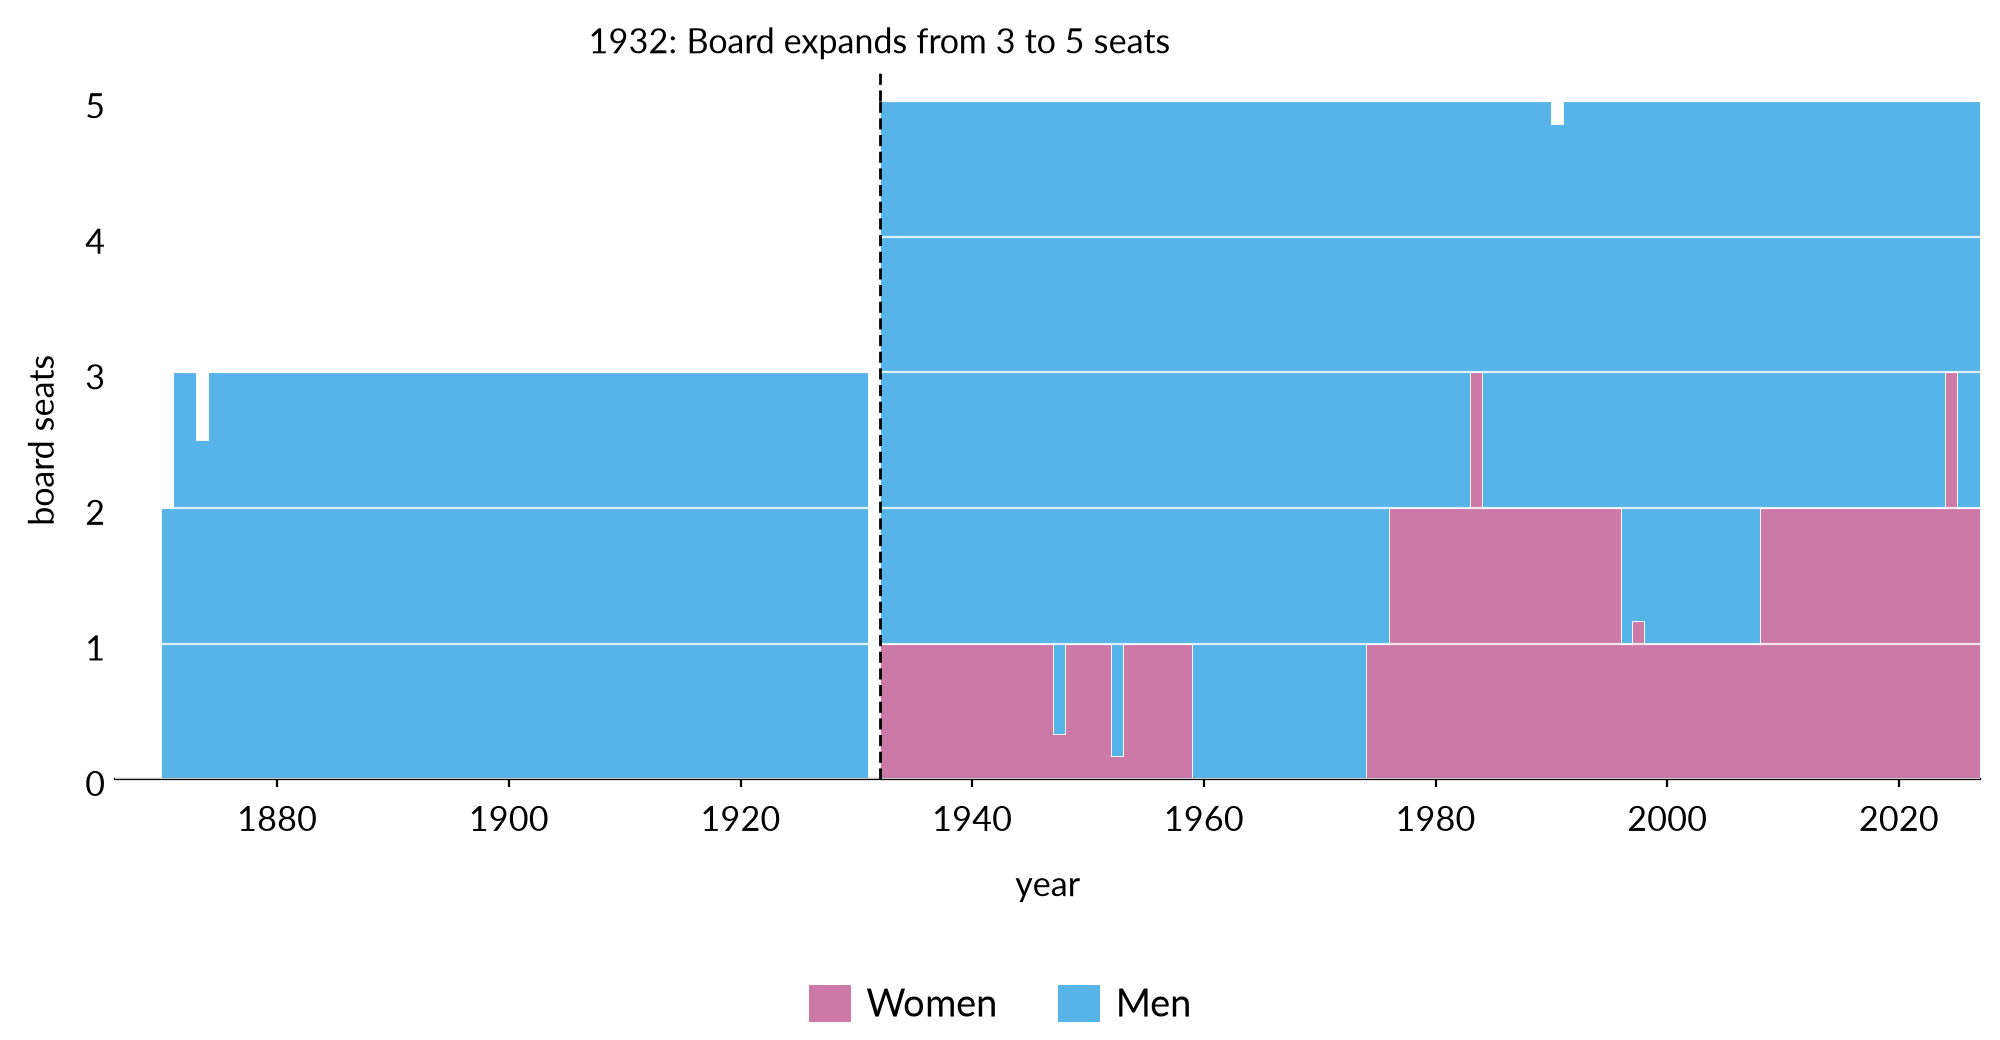
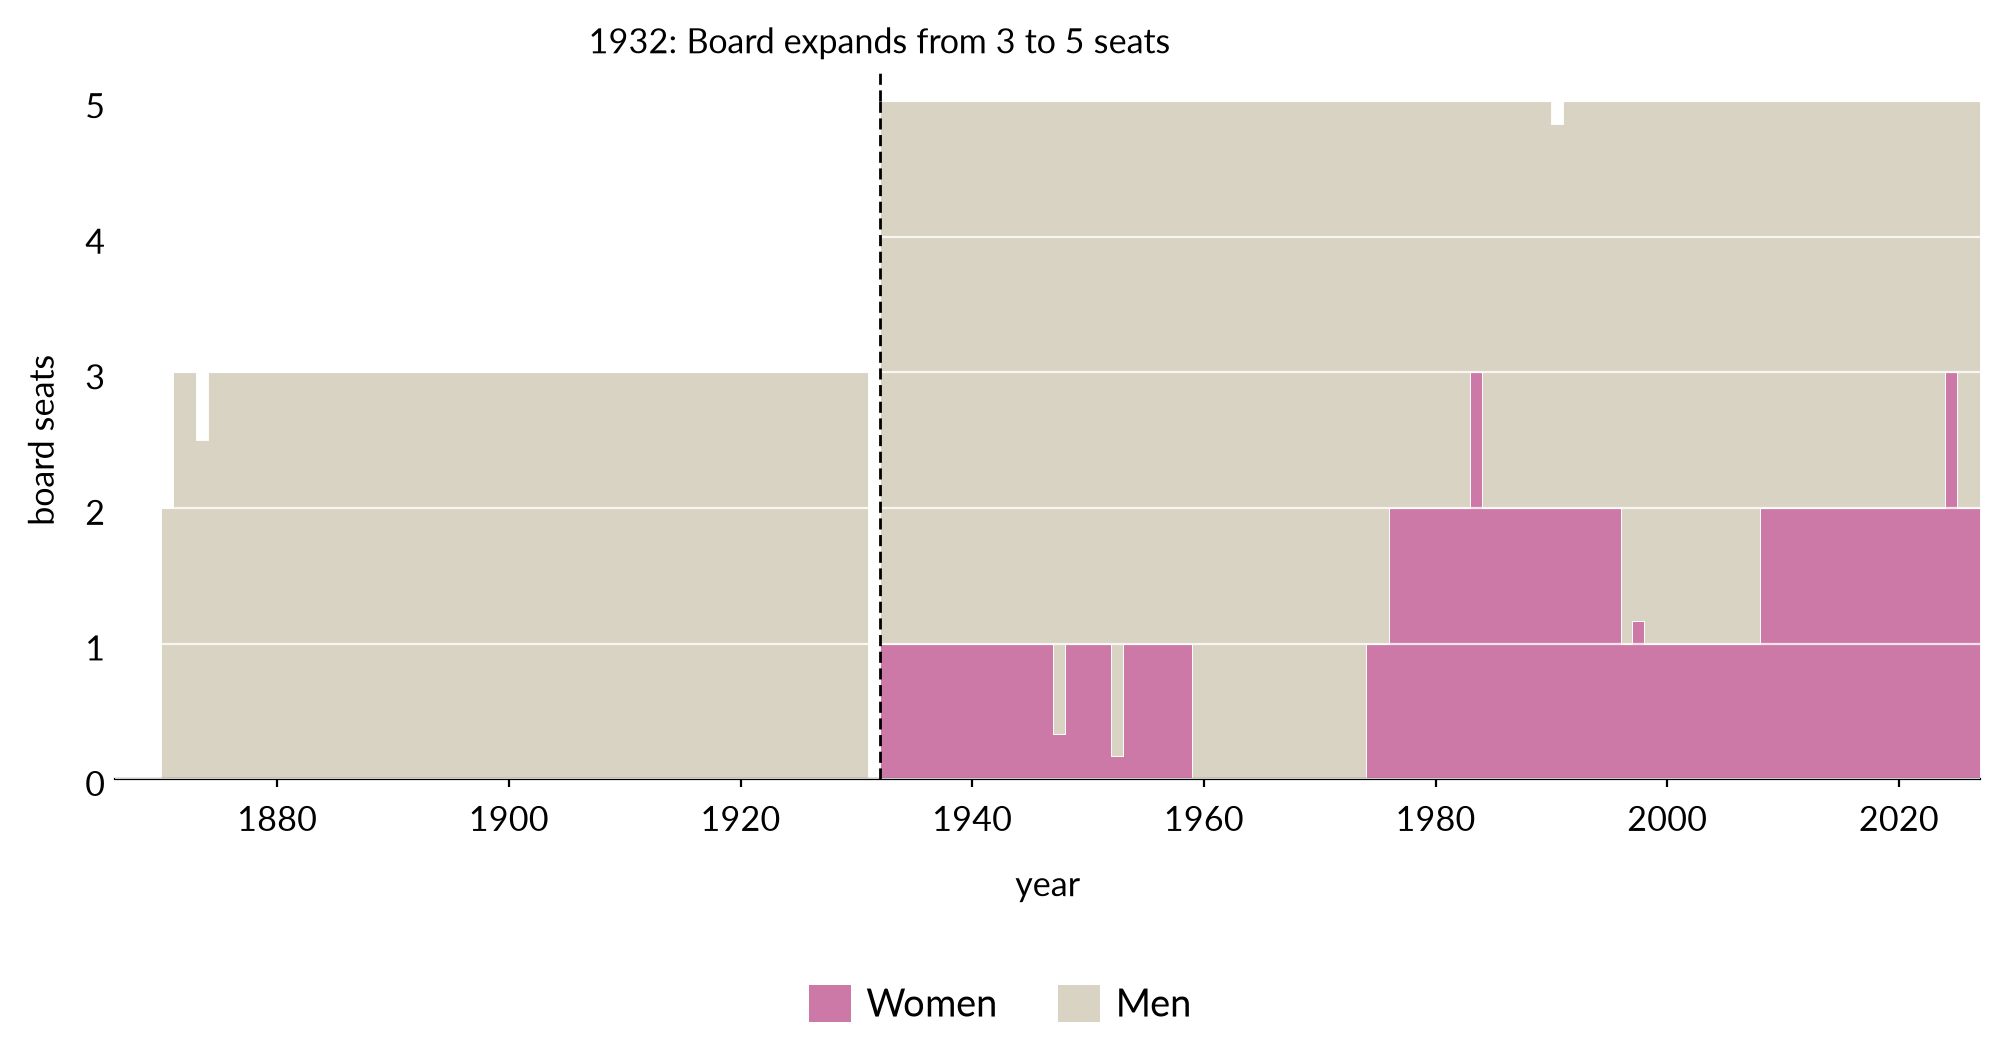
board_gender: pink against the sand, not against blue
Urban's guide says: 'Urban tries not to use color palettes that reinforce
gender or racial stereotypes (e.g., pink for women and blue for men).'
Pink and blue was what we had, and it is the example the guide names.

Half the pairing goes. Men take the same near-neutral the largest group
takes everywhere else in this report, so the figure reads the way the race
figures do - the mass is the backdrop, the subject carries the colour -
rather than as a gendered pair. It also makes board_gender and board_race
consistent with each other, which they should be: they are drawn side by
side from the same rows.

The pink stays, which is Sally's call, and is recorded in
style/urban-styleguide.md as a departure.

diff --git a/style/style.py b/style/style.py
@@ -100,9 +100,16 @@ CENSUS_COLORS = {
     "nh_white": SAND,
     "nh_other": GREY,
 }
+# Pink against the sand, not against blue. Urban's guide says: "Urban tries not
+# to use color palettes that reinforce gender or racial stereotypes (e.g., pink
+# for women and blue for men)." Pink and blue was tried and is the example the
+# guide names. Half the pairing goes: men take the same near-neutral the
+# largest group takes everywhere else in this report, so the figure reads the
+# way the race figures do - the mass is the backdrop, the subject carries the
+# colour - rather than as a gendered pair.
 GENDER_COLORS = {
     "women": OKABE_ITO["reddish_purple"],
-    "men":   OKABE_ITO["sky_blue"],
+    "men":   SAND,
 }
 # The growth figure: two counts of people, no categories.
 SERIES_COLORS = {"population": "#5C5859", "per_seat": OKABE_ITO["blue"]}
